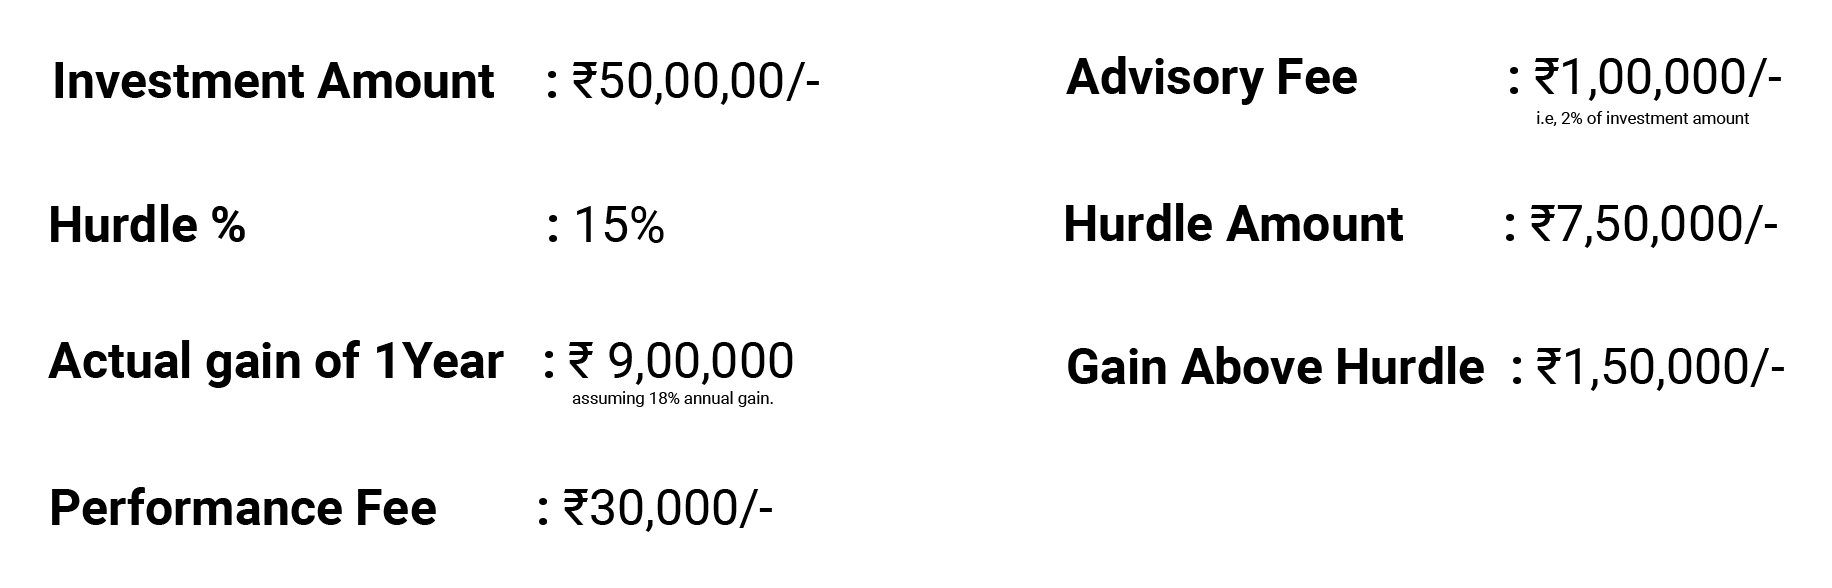
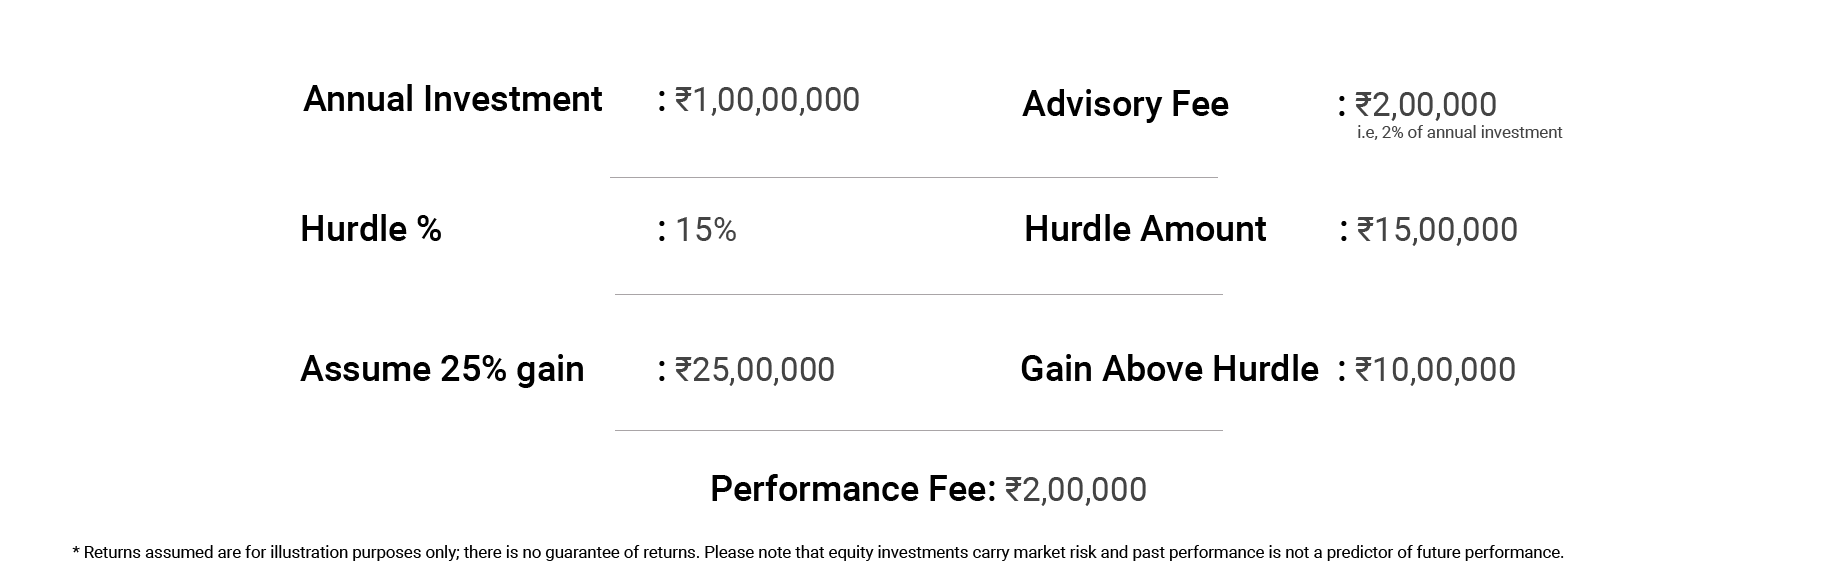
pricing

diff --git a/src/Component/pricing/index.js b/src/Component/pricing/index.js
@@ -5,6 +5,8 @@ import Footer from "../Footer";
 import { Link } from "react-router-dom";
 import { Helmet } from "react-helmet";
 import Cal from "../../assets/cal.png";
+import Cal2 from "../../assets/cal2.png";
+import Cal3 from "../../assets/cal3.png";
 
 const plan1 = [
   {
@@ -72,7 +74,9 @@ const plan3 = [
 class Pricing extends Component {
   state = {
     tab: 1,
-    planDetails: plan1
+    planDetails: plan1,
+    image: Cal,
+    exampleHeading: "Illustration for Plan A3"
   };
   componentDidMount() {
     window.scrollTo(0, 0);
@@ -138,7 +142,9 @@ class Pricing extends Component {
             onClick={() => {
               this.setState({
                 tab: 1,
-                planDetails: plan1
+                planDetails: plan1,
+                image: Cal,
+                exampleHeading: "Illustration for Plan A3"
               });
             }}
             style={tab1style}
@@ -161,7 +167,9 @@ class Pricing extends Component {
             onClick={() => {
               this.setState({
                 tab: 2,
-                planDetails: plan2
+                planDetails: plan2,
+                image: Cal2,
+                exampleHeading: "Illustration for Plan T3"
               });
             }}
             style={tab2style}
@@ -185,7 +193,9 @@ class Pricing extends Component {
             onClick={() => {
               this.setState({
                 tab: 3,
-                planDetails: plan3
+                planDetails: plan3,
+                image: Cal3,
+                exampleHeading: "Illustration for Plan S3"
               });
             }}
             style={tab3style}
@@ -271,7 +281,7 @@ class Pricing extends Component {
               backgroundColor: "#f4f5fb"
             }}
           >
-            <h4>Example: Plan A3</h4>
+            <h4>{this.state.exampleHeading}</h4>
           </div>
         </div>
 
@@ -282,7 +292,7 @@ class Pricing extends Component {
             margin: "16px auto",
             display: "flex"
           }}
-          src={Cal}
+          src={this.state.image}
         />
 
         <div class=" research-invest-section ">
